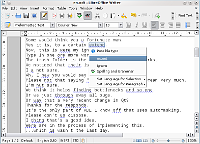
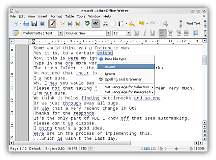
add small shadow to screenshot preview

diff --git a/www/index.php b/www/index.php
@@ -10,7 +10,7 @@ include("../include/browser_language.php");
 ?>
 
 <a title="LanguageTool installed as an add-on in LibreOffice" class="fancyboxImage"
-   href="screenshots/art/screenshot_lo3.png"><img style="margin-left: 15px" width="200" height="144" align="right"
+   href="screenshots/art/screenshot_lo3.png"><img style="margin-left: 15px" width="216" height="160" align="right"
    src="screenshots/art/screenshot_lo3_very_small.png" alt="Screenshot of LanguageTool"/></a>
 
 <p class="firstpara"><strong>LanguageTool is an Open Source proofreading software for English, French, German, Polish,
